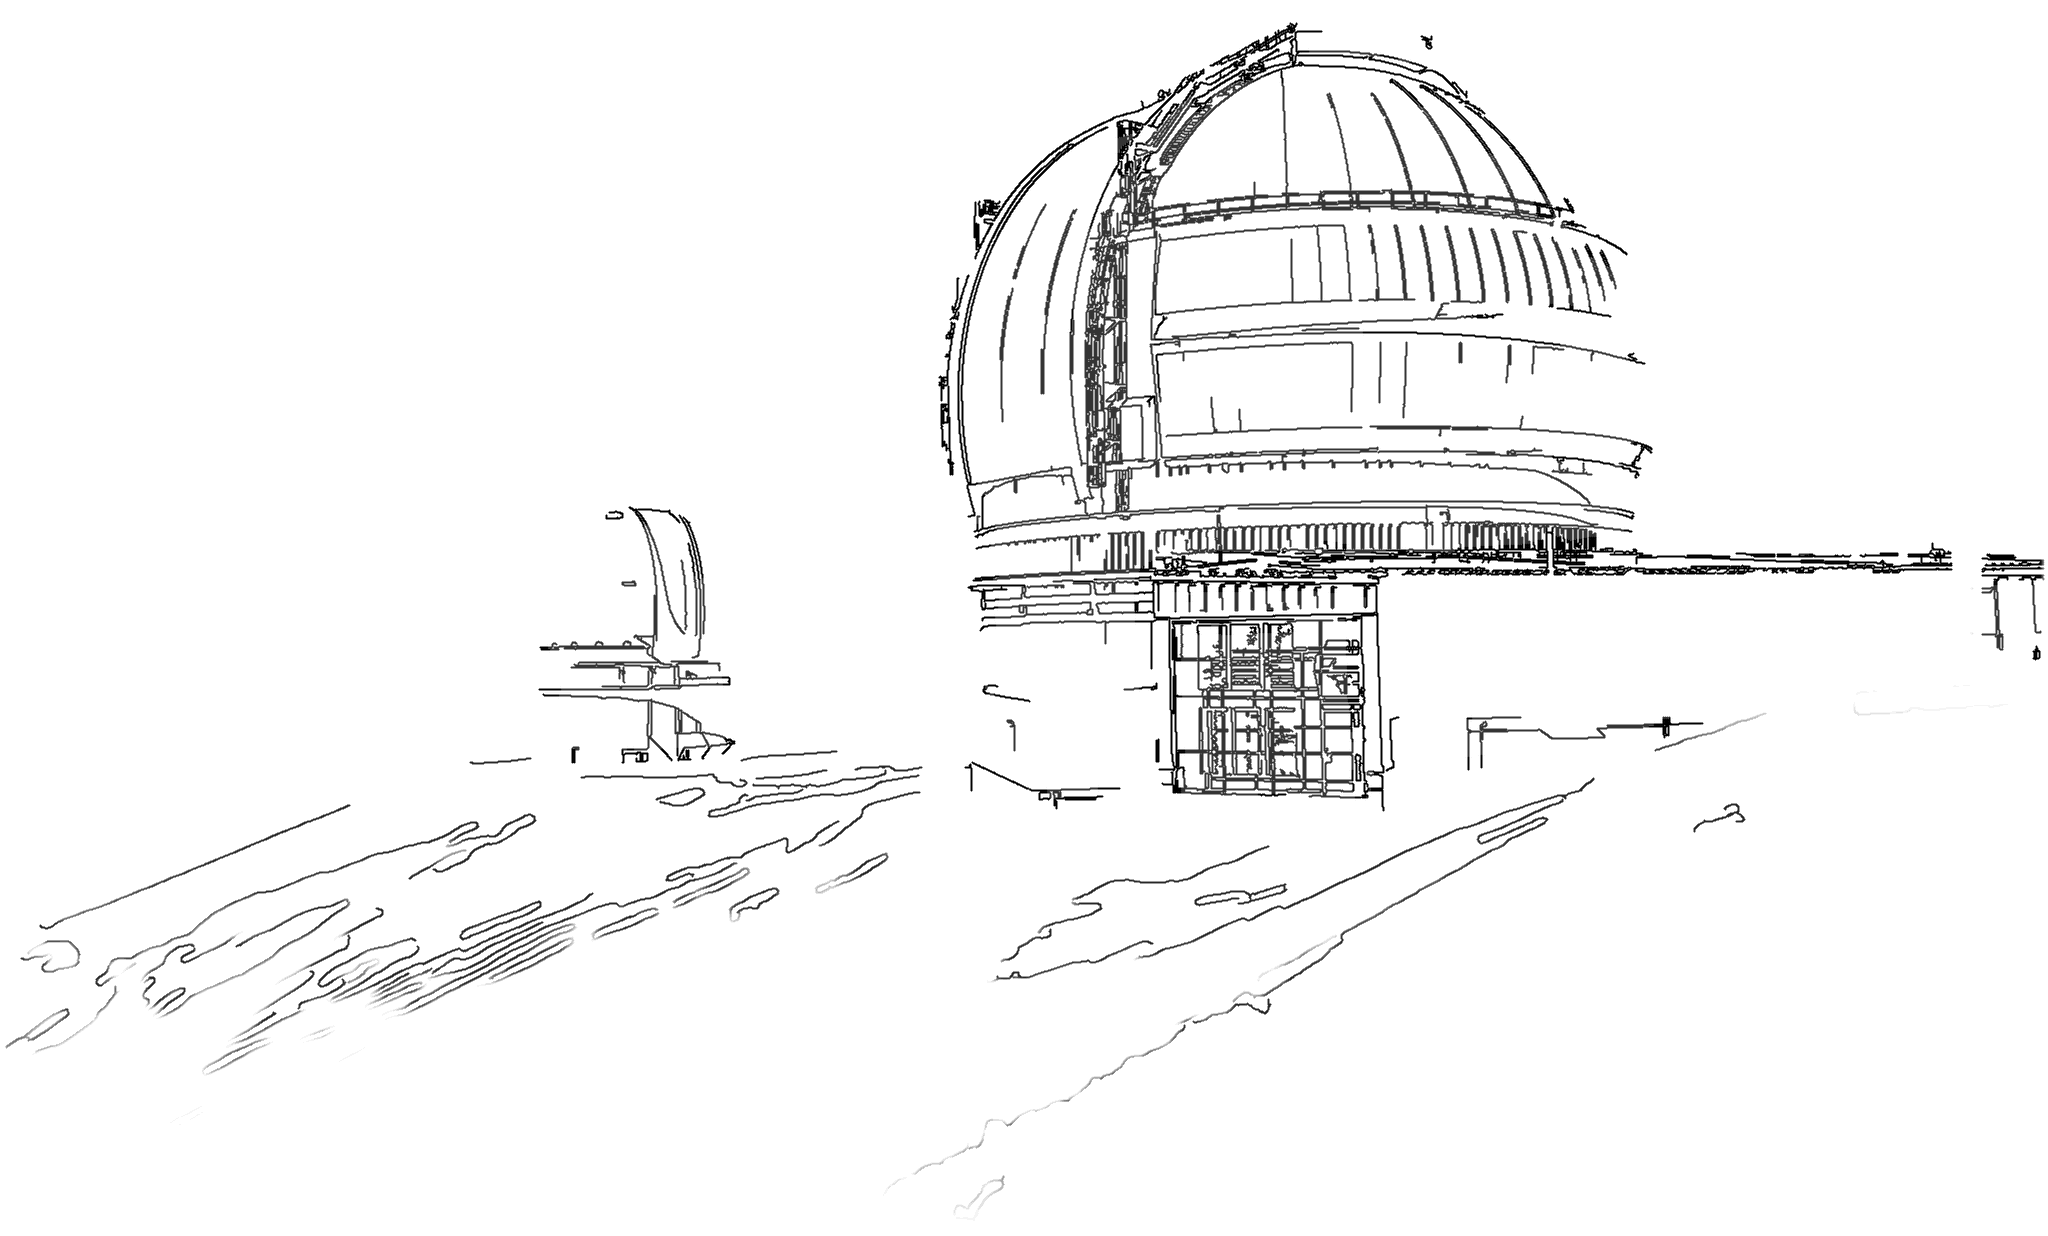
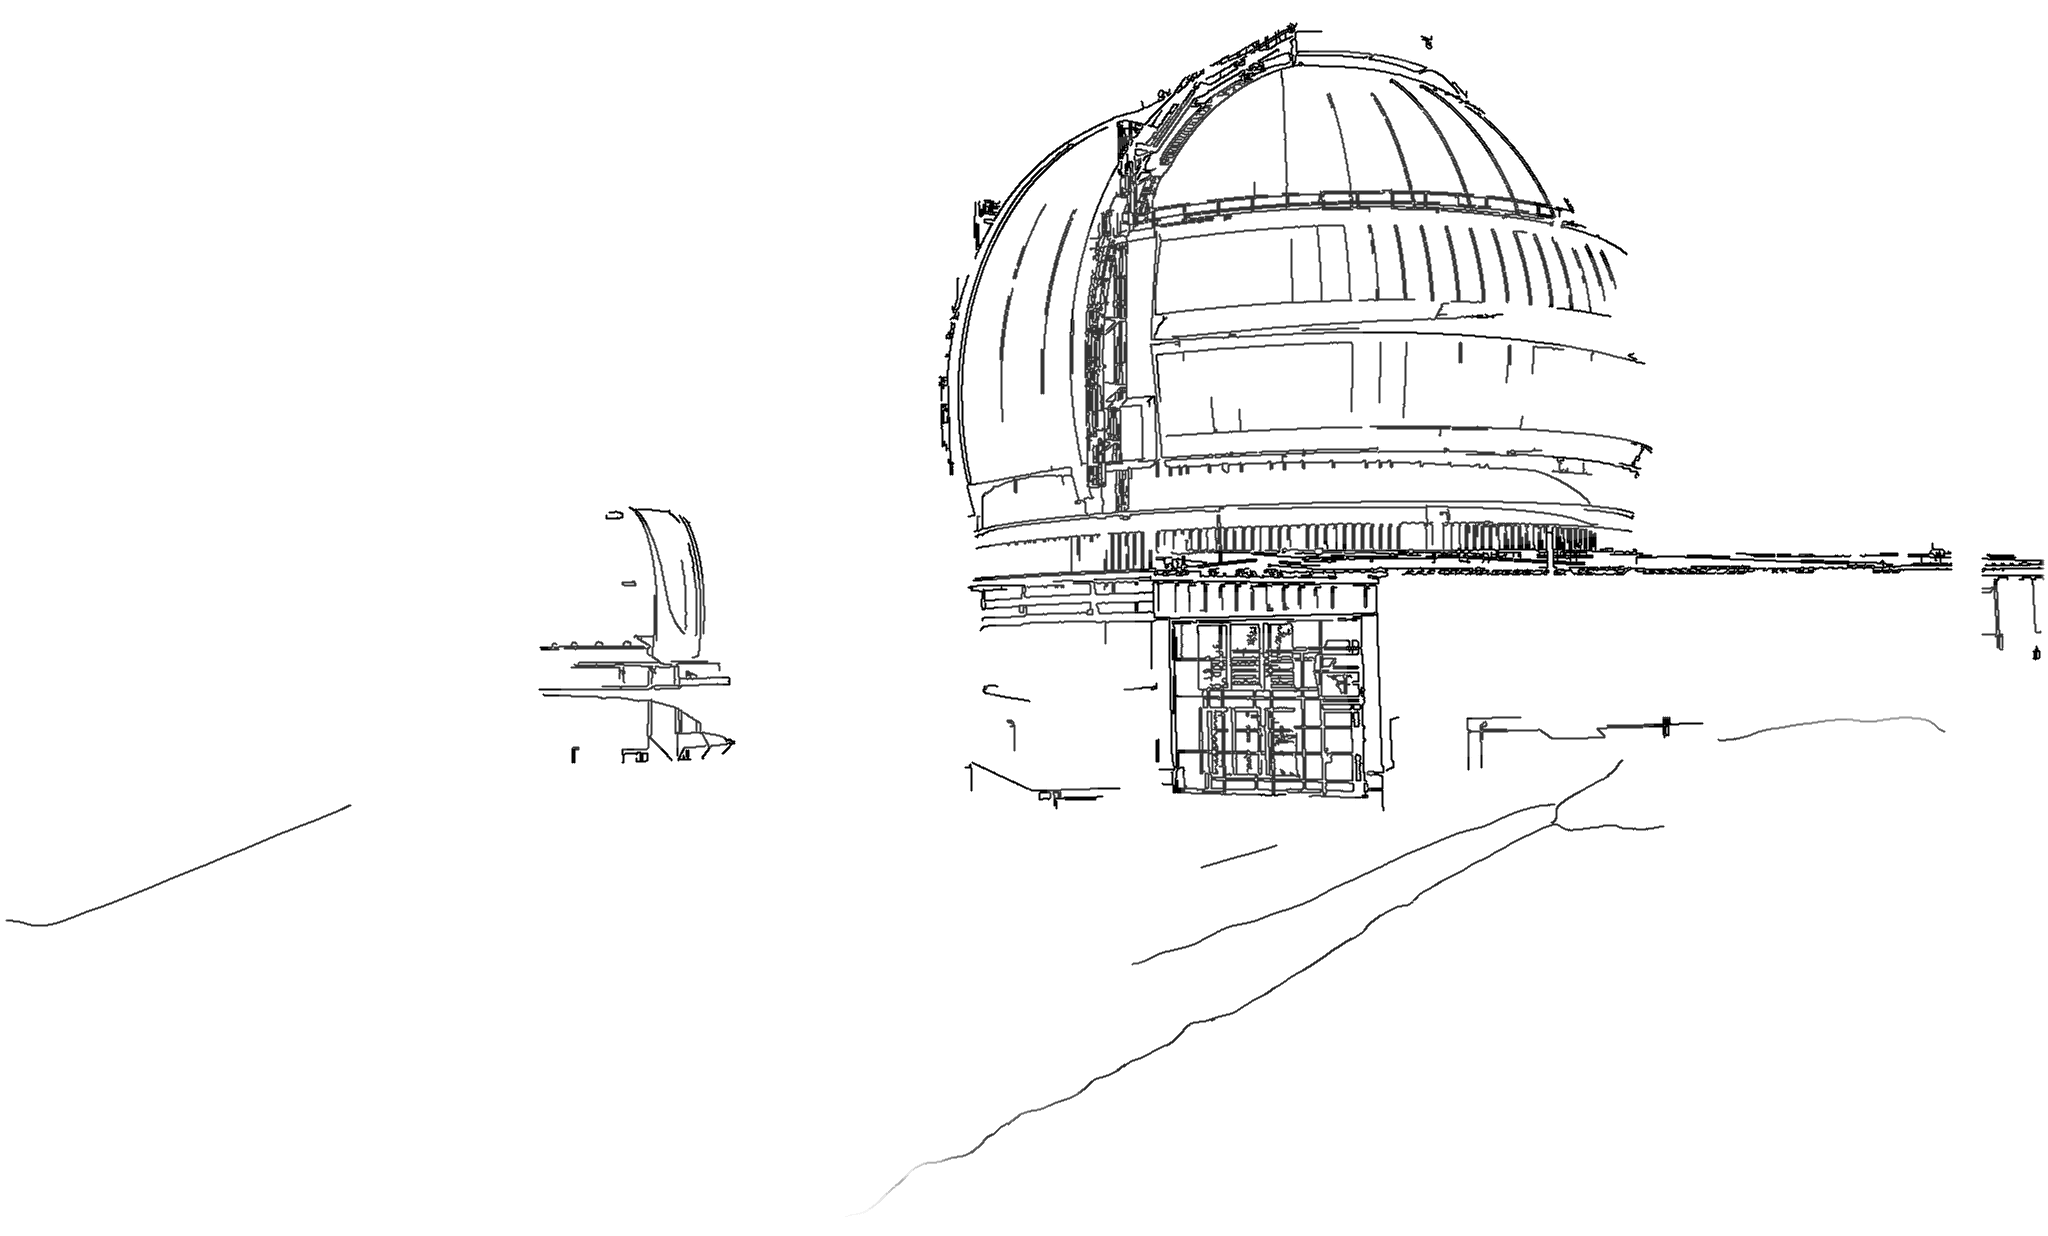
fix(landing): snow on the observatory plates is moonlit at night
At night Gemini North's snowfield printed as holes onto the dark page,
outlined by the lines that traced its patches, and the eyepiece showed the
page there too. The fade had broken the snow out of the plate, and its edge
lines were drawn as the building's.

The plates now come from astrolabe-site 984a435: Gemini's snow stays in the
print and its patch outlines are gone, and snow is the only ground at an
albedo of two on every plate. The shader reads that albedo as snow: paper
with no tooth by day, holding the paper's light at dusk, and after the inks
turn over a pale ivory stipple, thicker the more it faces the sky, over a
body no darker than the paper. The cinder and rock stay dark and the
building keeps its line drawing.

diff --git a/apps/landing/src/scripts/plate.js b/apps/landing/src/scripts/plate.js
@@ -128,6 +128,8 @@ import Twilight from "./twilight.js";
     uniform vec3 u_duoDark;      // the duotone's ends: shadows, highlights (the olive, softened, between)
     uniform vec3 u_duoLight;
     uniform vec4 u_lamp;         // the lamps' rust, and how far they are up (0 by day)
+    uniform float u_dusk;        // 0 by day, 1 from 4° below the horizon until the inks turn over
+    uniform float u_moon;        // 1 once the inks have turned over: the snow takes the moonlight
 
     const float DAY_Y = 0.947;   // the day paper's luminance; the building is measured against it
 
@@ -187,8 +189,16 @@ import Twilight from "./twilight.js";
       float paper = u_y.x;
       float dark = u_y.y < paper ? clamp((paper - body) / (paper - u_y.y), 0.0, 1.0) : 0.0;
       float light = u_y.z > paper ? clamp((body - paper) / (u_y.z - paper), 0.0, 1.0) : 0.0;
+      // Snow: ground whiter than any building (an albedo near two). By day it is the paper itself, without
+      // the tooth below; at dusk, when the building darkens against the paper, it holds the paper's light.
+      // Once the inks have turned over it is the brightest thing on the plate, moonlit: an ivory stipple,
+      // thicker the more it faces the sky, over a body no darker than the paper.
+      float snow = smoothstep(0.92, 0.99, tone.b);
+      float moon = snow * u_moon;
+      dark *= 1.0 - snow * u_dusk;
+      light = max(light, moon * (0.3 + 0.4 * sky));
       // The paper's tooth: even a face square to the sun keeps a few grains, as the Mercury prints do.
-      dark = max(pow(dark, 1.15) * 0.8, u_y.y < paper ? 0.035 : 0.0);
+      dark = max(pow(dark, 1.15) * 0.8, u_y.y < paper ? 0.035 * (1.0 - snow) : 0.0);
 
       // Grains at the print's resolution (two per CSS px), averaged where a device px holds several.
       vec2 cell = floor(gl_FragCoord.xy) * u_sub;
@@ -211,7 +221,7 @@ import Twilight from "./twilight.js";
       float aLight = inkLight * k * u_alpha.y * g.a;
       float aOlive = oliveCover * k * u_alpha.z * g2.a * (1.0 - aDark - aLight);
       vec4 grain = vec4(u_dark * aDark + u_ivory * aLight + u_olive * aOlive, aDark + aLight + aOlive);
-      gl_FragColor = grain + u_body * g.a * (1.0 - grain.a);
+      gl_FragColor = grain + u_body * g.a * (1.0 - moon) * (1.0 - grain.a);
 
       // The eyepiece: inside the aperture the photograph in continuous tone. Its edge is decided grain
       // by grain over about a CSS px, so it is as crisp as the print and has the print's tooth.
@@ -472,6 +482,9 @@ import Twilight from "./twilight.js";
       // The lamps: up from just after sunset, full at −9°, a degree before the inks turn over.
       const rust = Twilight.hex(palette.inverted ? palette.vars["--rust-text"] : RUST);
       gl.uniform4f(u.u_lamp, ...rust, 0.96 * smooth(-0.5, -9, alt));
+      // The same dusk as the drawn lines' (--plate-dusk), and the night after it.
+      gl.uniform1f(u.u_dusk, palette.inverted ? 0 : smooth(0.5, -4, alt));
+      gl.uniform1f(u.u_moon, palette.inverted ? 1 : 0);
       gl.clearColor(0, 0, 0, 0);
       gl.clear(gl.COLOR_BUFFER_BIT);
       gl.drawArrays(gl.TRIANGLE_STRIP, 0, 4);
